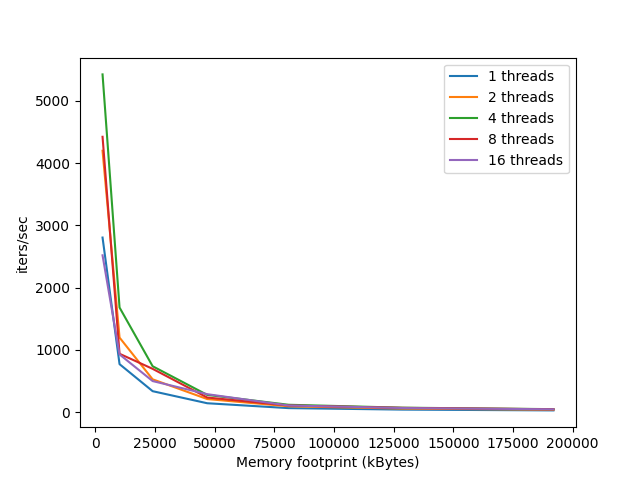
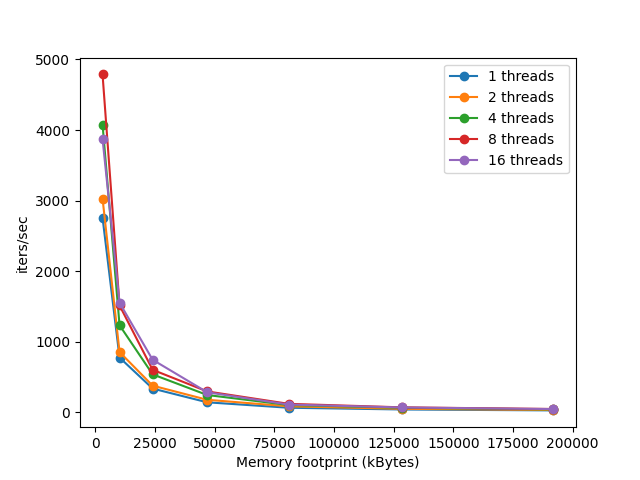
added plots Jacobiv1, fixed plotter

diff --git a/assignment-2/plotter.py b/assignment-2/plotter.py
@@ -31,33 +31,9 @@ data.columns = ["size_N", "iterations", "time", "iters_per_second", "memory", "m
 distinct_sizes_N = data.size_N.unique()
 
 # create column of num_threads
-num_threads_col = [1, 2, 4, 8, 16]*len(distinct_sizes_N)
-data.num_threads = num_threads_col
+num_threads = [1, 2, 4, 8, 16]*len(distinct_sizes_N)
+data["num_threads"] = num_threads
 distinct_num_threads = [1, 2, 4, 8, 16]
-
-# create speedup column
-# NOTE: there is definetly a better way to do this
-T_1 = data[data.num_threads == 1].time
-speedup = []
-for idx, thread in enumerate(data.num_threads):
-	if thread == 1:
-		speedup.append(data.time[idx] / T_1[0])
-	elif thread == 2:
-		speedup.append(data.time[idx] / T_1[1])
-	elif thread == 4:
-		speedup.append(data.time[idx] / T_1[2])
-	elif thread == 8:
-		speedup.append(data.time[idx] / T_1[3])
-	elif thread == 16:
-		speedup.append(data.time[idx] / T_1[4])
-	else:
-		print("Error: num threads not valid. Num_threads=", data.num_threads)
-		exit()
-
-data.speedup = speedup
-print(data.speedup)
-
-
 
 
 print(data)
@@ -153,6 +129,7 @@ ax.legend()
 plt.xlabel("Memory footprint (kBytes)")
 plt.ylabel("MLUPS")
 fig.savefig(parent_folder +'/plots' +'/mlupsVSmemory.png')
+
 
 print("Success!. Images saved at", parent_folder +'/plots')
 exit()
